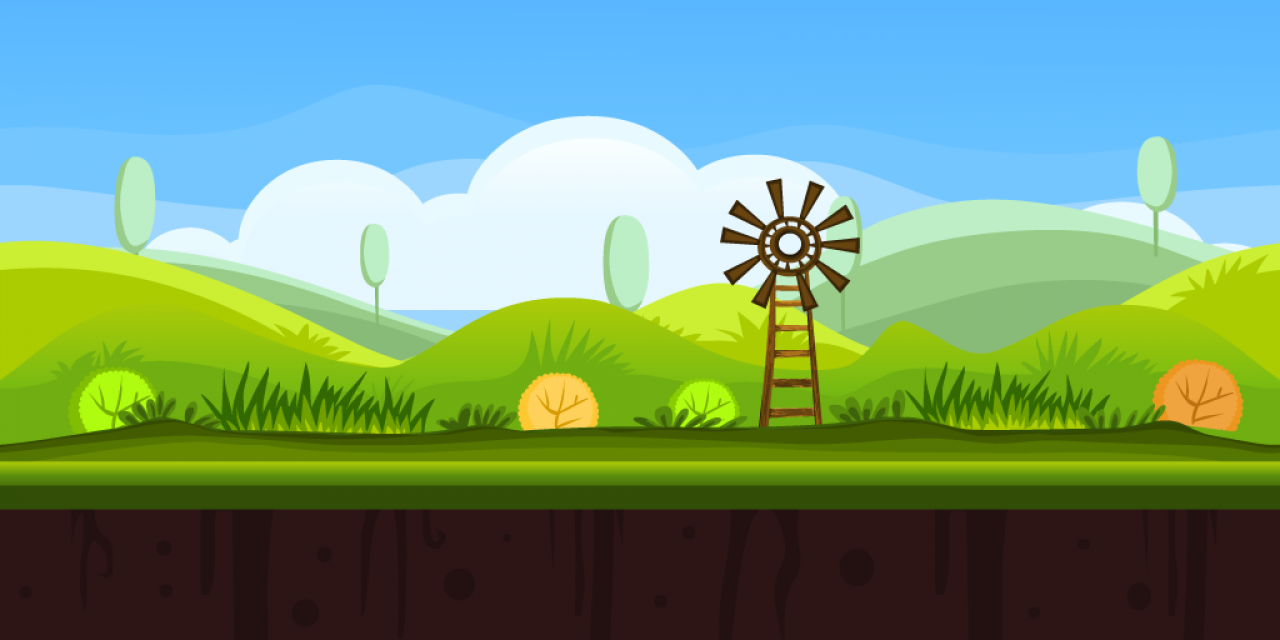
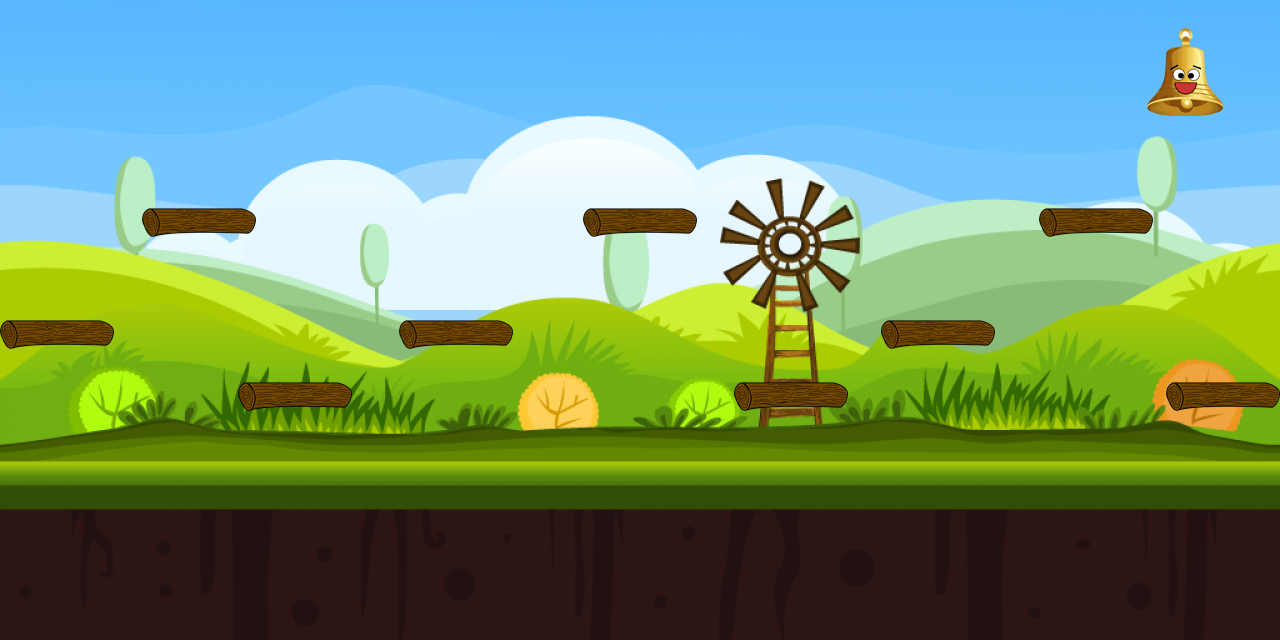
start - gameover

diff --git a/js/game.js b/js/game.js
@@ -16,6 +16,9 @@ function randomIntFromInterval(min, max) { // min and max included
     },
     score: 0,
     hasAcorn: false,
+    imgGameOver: new Image(),
+    realGO: false,
+
 
 
 
@@ -66,7 +69,6 @@ function randomIntFromInterval(min, max) { // min and max included
             if (this.framesCounter % 300 == 0) this.generateEnemies();
             if (this.framesCounter % 5 == 0) this.generateCoin();
             if (this.isCollisionCoin()) this.Winner
-            if (this.isCollisionButcher()) this.gameOver()
             // this.inPLatform();
             if (this.isCollisionButcher()) {
                 console.log("muerto")
@@ -75,6 +77,7 @@ function randomIntFromInterval(min, max) { // min and max included
                 this.hasAcorn = true
                 console.log(this.hasAcorn)
             }
+            if (this.isCollisionButcher()) this.gameOver()
 
 
         }, 1000 / this.fps)
@@ -107,7 +110,7 @@ function randomIntFromInterval(min, max) { // min and max included
 
 
     drawAll: function () {
-
+        this.imgGameOver.src = "img/Web 1920 – 3.png"
         this.background.draw();
         this.player.draw(this.framesCounter);
         if (!this.hasAcorn) {
@@ -154,26 +157,26 @@ function randomIntFromInterval(min, max) { // min and max included
         if (this.obstacles.length <= 10) {
             for (i = 0; i <= 10; i++) {
                 if (i === 0) {
-                    this.obstacles.push(new Obstacle(this.ctx, 100, 5, this.width, this.height, this.width * 0.01, this.height * 0.5))
+                    this.obstacles.push(new Obstacle(this.ctx, 100, 0.5, this.width, this.height, this.width * 0.01, this.height * 0.5))
                 } else if (i === 1) {
-                    this.obstacles.push(new Obstacle(this.ctx, 100, 5, this.width, this.height, this.width * 0.12, this.height * 0.32))
+                    this.obstacles.push(new Obstacle(this.ctx, 100, 0.5, this.width, this.height, this.width * 0.12, this.height * 0.32))
                 } else if (i === 2) {
-                    this.obstacles.push(new Obstacle(this.ctx, 80, 5, this.width, this.height, this.width * 0.20, this.height * 0.6))
+                    this.obstacles.push(new Obstacle(this.ctx, 80, 0.5, this.width, this.height, this.width * 0.20, this.height * 0.6))
                 } else if (i === 3) {
-                    this.obstacles.push(new Obstacle(this.ctx, 100, 5, this.width, this.height, this.width * 0.32, this.height * 0.5))
+                    this.obstacles.push(new Obstacle(this.ctx, 100, 0.5, this.width, this.height, this.width * 0.32, this.height * 0.5))
                 } else if (i === 4) {
-                    this.obstacles.push(new Obstacle(this.ctx, 100, 5, this.width, this.height, this.width * 0.46, this.height * 0.32))
+                    this.obstacles.push(new Obstacle(this.ctx, 100, 0.5, this.width, this.height, this.width * 0.46, this.height * 0.32))
                 } else if (i === 5) {
-                    this.obstacles.push(new Obstacle(this.ctx, 100, 5, this.width, this.height, this.width * 0.58, this.height * 0.6))
+                    this.obstacles.push(new Obstacle(this.ctx, 100, 0.5, this.width, this.height, this.width * 0.58, this.height * 0.6))
                 } else if (i === 6) {
-                    this.obstacles.push(new Obstacle(this.ctx, 100, 5, this.width, this.height, this.width * 0.70, this.height * 0.5))
+                    this.obstacles.push(new Obstacle(this.ctx, 100, 0.5, this.width, this.height, this.width * 0.70, this.height * 0.5))
                 } else if (i === 7) {
-                    this.obstacles.push(new Obstacle(this.ctx, 100, 5, this.width, this.height, this.width * 0.82, this.height * 0.32))
+                    this.obstacles.push(new Obstacle(this.ctx, 100, 0.5, this.width, this.height, this.width * 0.82, this.height * 0.32))
                 } else if (i === 8) {
-                    this.obstacles.push(new Obstacle(this.ctx, 70, 5, this.width, this.height, this.width * 0.94, this.height * 0.6))
+                    this.obstacles.push(new Obstacle(this.ctx, 70, 0.5, this.width, this.height, this.width * 0.94, this.height * 0.6))
 
                 } else
-                    this.obstacles.push(new Obstacle(this.ctx, 100, 5, this.width, this.height, this.width * 1, this.height * 0.6))
+                    this.obstacles.push(new Obstacle(this.ctx, 100, 0.5, this.width, this.height, this.width * 1, this.height * 0.6))
 
             }
         }
@@ -184,7 +187,7 @@ function randomIntFromInterval(min, max) { // min and max included
     generateWinner: function () {
 
         if (this.winners.length <= 1) {
-         this.winners.push(new Winner(this.ctx, 70, 25, this.width, this.height, this.width * 0.9, this.height * 0.1));
+         this.winners.push(new Winner(this.ctx, 20, 20, this.width, this.height, this.width * 0.93, this.height * 0.1));
 
 
         }
@@ -193,7 +196,11 @@ function randomIntFromInterval(min, max) { // min and max included
 
 
     gameOver: function () {
-        clearInterval(this.interval)
+        this.ctx.drawImage(this.imgGameOver, 0, 0 , this.width, this.height);
+        this.realGO = true
+        if (this.realGO = true){
+        clearInterval(this.interval)}
+
     },
 
     // Winner: function () {

diff --git a/startgame.html b/startgame.html
@@ -1,0 +1,20 @@
+<!DOCTYPE html>
+<html lang="en">
+<head>
+    <meta charset="UTF-8">
+    <meta name="viewport" content="width=device-width, initial-scale=1.0">
+    <meta http-equiv="X-UA-Compatible" content="ie=edge">
+    <title>Document</title>
+    <link rel="stylesheet" href="./css/startgame.css">
+    <style>
+        
+    </style>
+</head>
+<body>
+        <div class="background-img">
+            <a href="./index.html">
+                <img class="image" src="./img/Web 1920 – 1.png" alt="background-start-game">
+            </a>
+            </div>
+</body>
+</html>

diff --git a/js/winner.js b/js/winner.js
@@ -5,7 +5,7 @@ class Winner {
         this.height = height;
         this.gameWidth = gameWidth;
         this.gameHeight = gameHeight;
-    
+
 
 
         this.posX = posX;
@@ -14,9 +14,12 @@ class Winner {
     }
 
     draw() {
-        this.ctx.fillStyle = "green"
+        this.ctx.fillStyle = "rgba(255, 255, 255, 0.01)";
         this.ctx.fillRect(this.posX, this.posY, this.width, this.height)
     }
-   
+
 
 }
+
+
+

diff --git a/index.html b/index.html
@@ -22,9 +22,9 @@
     
 <script src="./js/winner.js"></script>
 <script src="./js/coin.js"></script>
-<script src="js/obstacles.js"></script>
 <script src="js/enemy.js"></script>
 <script src="js/background.js"></script>
+<script src="js/obstacles.js"></script>
 <script src="./js/scoreboard.js"></script>
 <script src="js/player.js"></script>
     <script src="js/game.js"></script>

diff --git a/css/startgame.css b/css/startgame.css
@@ -1,0 +1,21 @@
+
+html, body {
+    margin: 0;
+    padding: 0;
+
+}
+
+body {
+    overflow: hidden;
+}
+
+.background-img {
+    display: flex;
+    justify-content: center;
+    align-items: center;
+}
+
+.image {
+    width: 100%;
+    height: 100%;
+}

diff --git a/js/obstacles.js b/js/obstacles.js
@@ -14,7 +14,7 @@ class Obstacle {
     }
 
     draw() {
-        this.ctx.fillStyle = "red"
+        this.ctx.fillStyle = "brown"
         this.ctx.fillRect(this.posX, this.posY, this.width, this.height)
     }
    
